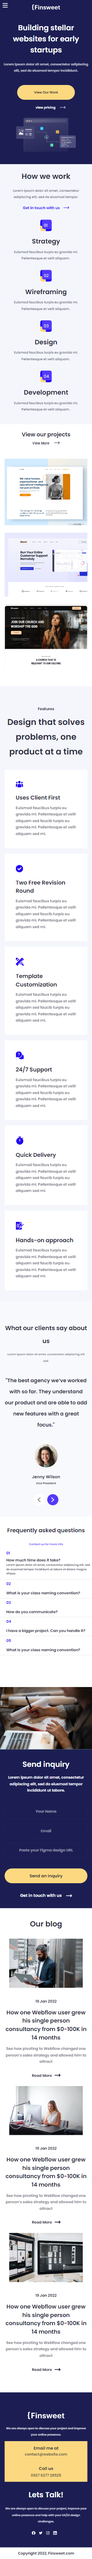
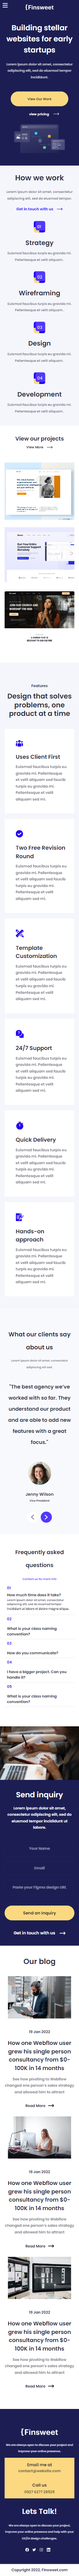
ver 1.0

diff --git a/html/contact.html b/html/contact.html
@@ -352,5 +352,12 @@
       <!--end footer-->
     </div>
     <!--end wrapper-->
+    <!--
+      https://arvinbagherisani.github.io/Figma-Web2-FinalProject/html/contact.html
+      -----------------------------------------------------------------
+      https://github.com/ArvinBagheriSani
+      -----------------------------------------------------------------
+      https://www.figma.com/file/r2mtacFqESUCPIOoFILIYb/Client-First-Template-9---Webflow-Agency-(Community)?type=design&node-id=0-1&mode=design
+    -->
   </body>
 </html>

diff --git a/html/pricing.html b/html/pricing.html
@@ -914,5 +914,12 @@
       <!--end footer-->
     </div>
     <!--end wrapper-->
+    <!--
+      https://arvinbagherisani.github.io/Figma-Web2-FinalProject/html/pricing.html
+      -----------------------------------------------------------------
+      https://github.com/ArvinBagheriSani
+      -----------------------------------------------------------------
+      https://www.figma.com/file/r2mtacFqESUCPIOoFILIYb/Client-First-Template-9---Webflow-Agency-(Community)?type=design&node-id=0-1&mode=design
+    -->
   </body>
 </html>

diff --git a/html/privacy.html b/html/privacy.html
@@ -413,5 +413,12 @@
       <!--end footer-->
     </div>
     <!--end wrapper-->
+    <!--
+      https://arvinbagherisani.github.io/Figma-Web2-FinalProject/html/privacy.html
+      -----------------------------------------------------------------
+      https://github.com/ArvinBagheriSani
+      -----------------------------------------------------------------
+      https://www.figma.com/file/r2mtacFqESUCPIOoFILIYb/Client-First-Template-9---Webflow-Agency-(Community)?type=design&node-id=0-1&mode=design
+    -->
   </body>
 </html>

diff --git a/html/read.html b/html/read.html
@@ -390,5 +390,12 @@
       <!--end footer-->
     </div>
     <!--end wrapper-->
+    <!--
+      https://arvinbagherisani.github.io/Figma-Web2-FinalProject/html/read.html
+      -----------------------------------------------------------------
+      https://github.com/ArvinBagheriSani
+      -----------------------------------------------------------------
+      https://www.figma.com/file/r2mtacFqESUCPIOoFILIYb/Client-First-Template-9---Webflow-Agency-(Community)?type=design&node-id=0-1&mode=design
+    -->
   </body>
 </html>

diff --git a/html/home.html b/html/home.html
@@ -693,5 +693,12 @@
       },
     );
     </script>
+    <!--
+      https://arvinbagherisani.github.io/Figma-Web2-FinalProject/html/home.html
+      -----------------------------------------------------------------
+      https://github.com/ArvinBagheriSani
+      -----------------------------------------------------------------
+      https://www.figma.com/file/r2mtacFqESUCPIOoFILIYb/Client-First-Template-9---Webflow-Agency-(Community)?type=design&node-id=0-1&mode=design
+    -->
   </body>
 </html>

diff --git a/css/mobile-tablet/components/home.css b/css/mobile-tablet/components/home.css
@@ -126,7 +126,7 @@
   opacity: 0.7;
 }
 .home .contactform {
-  margin-top: 138px;
+  margin-top: 64px;
   width: 100%;
   height: 100%;
   display: grid;
@@ -136,7 +136,6 @@
 .home .contactform .contactformleft {
   position: relative;
   display: inline-block;
-  background-color: aquamarine;
   overflow: hidden;
 }
 .home .contactform .contactformleft:hover .formcover {

diff --git a/css/mobile-tablet/components/home.scss b/css/mobile-tablet/components/home.scss
@@ -125,7 +125,7 @@
     }
   }
   .contactform {
-    margin-top: 138px;
+    margin-top: 64px;
     width: 100%;
     height: 100%;
     display: grid;
@@ -134,7 +134,6 @@
     .contactformleft {
       position: relative;
       display: inline-block;
-      background-color: aquamarine;
       overflow: hidden;
       &:hover {
         .formcover {
